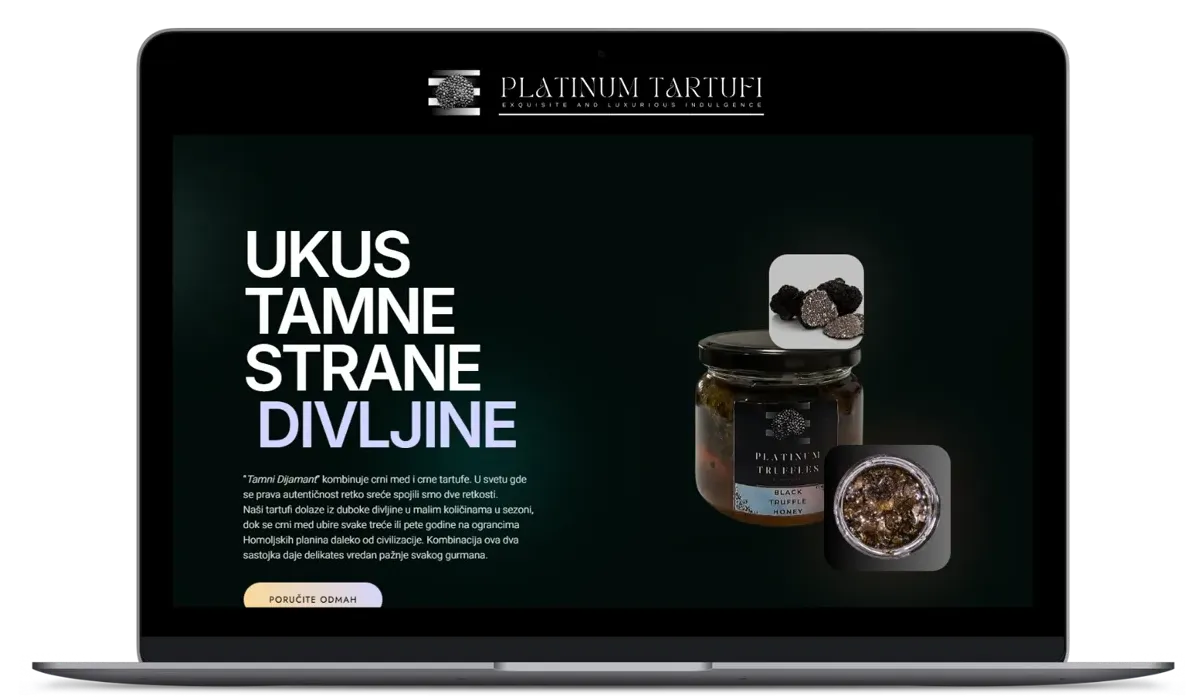
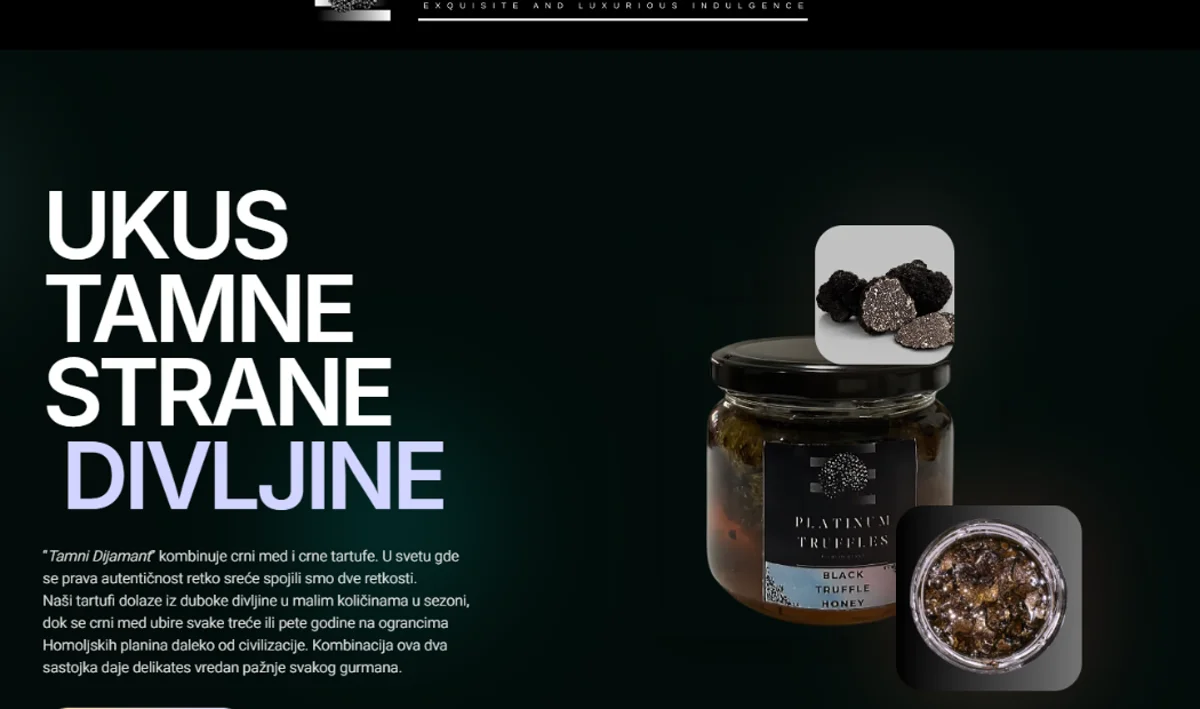
fix: clean portfolio screenshots (cropped from originals, no device frames), update project names

diff --git a/src/pages/WebDesignPage.jsx b/src/pages/WebDesignPage.jsx
@@ -20,9 +20,9 @@ const heroHomeLight = `${B}hero-home-light.webp`
 const portfolio = [
   { img: `${B}portfolio-02.webp`, name: 'Platinum Tartufi', type: 'E-Commerce', result: '+180% prodaje' },
   { img: `${B}portfolio-grubin.webp`, name: 'Grubin Showroom', type: 'WooCommerce', result: '+220% saobraćaja' },
-  { img: `${B}portfolio-lilium.webp`, name: 'Lilium', type: 'Kozmetički salon', result: '+260% rezervacija' },
+  { img: `${B}portfolio-lilium.webp`, name: 'DentElevate', type: 'Stomatologija', result: '+260% rezervacija' },
   { img: `${B}niwa-hero.webp`, name: 'Niwa AI', type: 'SaaS Platform', result: '+195% sign-ups' },
-  { img: `${B}portfolio-04.webp`, name: 'MERME Salon', type: 'Frizerski salon', result: '+150% rezervacija' },
+  { img: `${B}portfolio-04.webp`, name: 'Krovmont', type: 'Krovovi i izolacija', result: '+150% upita' },
   { img: `${B}portfolio-09.webp`, name: 'Veda Stolarija', type: 'PVC Stolarija', result: '3x više upita' },
 ]
 
@@ -125,7 +125,7 @@ export default function WebDesignPage() {
           {/* Hero showcase — featured project in browser frame */}
           <div className="hero-enter hero-enter-d4 mt-10 md:mt-16">
             <div className="max-w-[900px] mx-auto">
-              <BrowserFrame src={`${B}portfolio-01.webp`} name="focusfizikal.rs" type="Fitness" result="nov sajt" />
+              <BrowserFrame src={`${B}portfolio-01.webp`} name="Focus Fizikal" type="Fizikalna terapija" result="95+ PageSpeed" />
             </div>
           </div>
         </div>
